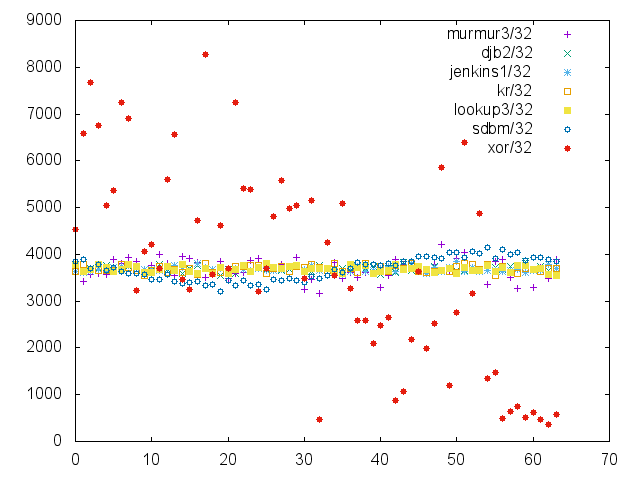
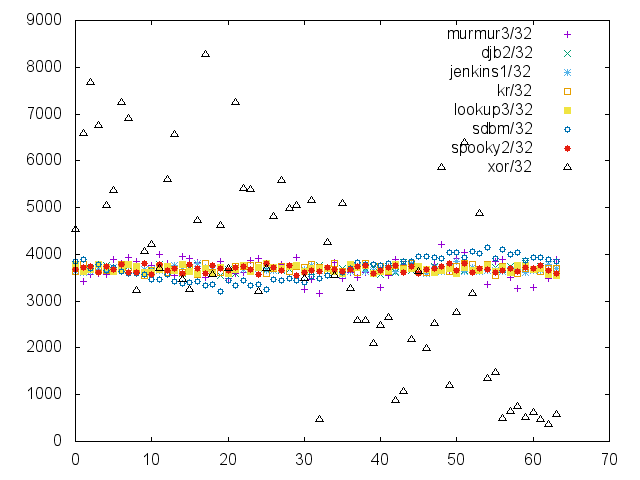
Implement 32-bit version of Spooky2/128

diff --git a/algo/spooky2.c b/algo/spooky2.c
@@ -1,0 +1,110 @@
+/* Copyright (c) 2016 James Hunt
+
+   Permission is hereby granted, free of charge, to any person obtaining a copy
+   of this software and associated documentation files (the "Software"), to
+   deal in the Software without restriction, including without limitation the
+   rights to use, copy, modify, merge, publish, distribute, sublicense, and/or
+   sell copies of the Software, and to permit persons to whom the Software is
+   furnished to do so, subject to the following conditions:
+
+   The above copyright notice and this permission notice shall be included in
+   all copies or substantial portions of the Software.
+
+   THE SOFTWARE IS PROVIDED "AS IS", WITHOUT WARRANTY OF ANY KIND, EXPRESS OR
+   IMPLIED, INCLUDING BUT NOT LIMITED TO THE WARRANTIES OF MERCHANTABILITY,
+   FITNESS FOR A PARTICULAR PURPOSE AND NONINFRINGEMENT. IN NO EVENT SHALL THE
+   AUTHORS OR COPYRIGHT HOLDERS BE LIABLE FOR ANY CLAIM, DAMAGES OR OTHER
+   LIABILITY, WHETHER IN AN ACTION OF CONTRACT, TORT OR OTHERWISE, ARISING
+   FROM, OUT OF OR IN CONNECTION WITH THE SOFTWARE OR THE USE OR OTHER DEALINGS
+   IN THE SOFTWARE.
+*/
+
+#include <sys/types.h>
+#include <stdint.h>
+#include <string.h>
+
+#define VARS   12
+#define BLOCK  VARS * 8
+#define ROL(x,y) ((x) << (y) | ((x) >> (64 - (y))))
+
+#define mix(data,s0,s1,s2,s3,s4,s5,s6,s7,s8,s9,s10,s11) {\
+	 s0 += data[0];     s2 ^= s10;   s11 ^= s0;     s0 = ROL(s0,11);   s11 += s1;  \
+	 s1 += data[1];     s3 ^= s11;   s0 ^= s1;      s1 = ROL(s1,32);    s0 += s2;  \
+	 s2 += data[2];     s4 ^= s0;    s1 ^= s2;      s2 = ROL(s2,43);    s1 += s3;  \
+	 s3 += data[3];     s5 ^= s1;    s2 ^= s3;      s3 = ROL(s3,31);    s2 += s4;  \
+	 s4 += data[4];     s6 ^= s2;    s3 ^= s4;      s4 = ROL(s4,17);    s3 += s5;  \
+	 s5 += data[5];     s7 ^= s3;    s4 ^= s5;      s5 = ROL(s5,28);    s4 += s6;  \
+	 s6 += data[6];     s8 ^= s4;    s5 ^= s6;      s6 = ROL(s6,39);    s5 += s7;  \
+	 s7 += data[7];     s9 ^= s5;    s6 ^= s7;      s7 = ROL(s7,57);    s6 += s8;  \
+	 s8 += data[8];    s10 ^= s6;    s7 ^= s8;      s8 = ROL(s8,55);    s7 += s9;  \
+	 s9 += data[9];    s11 ^= s7;    s8 ^= s9;      s9 = ROL(s9,54);    s8 += s10; \
+	s10 += data[10];    s0 ^= s8;    s9 ^= s10;    s10 = ROL(s10,22);   s9 += s11; \
+	s11 += data[11];    s1 ^= s9;    s10 ^= s11;   s11 = ROL(s11,46);  s10 += s0;  \
+}
+
+#define endpart(h0,h1,h2,h3,h4,h5,h6,h7,h8,h9,h10,h11) {\
+	h11+= h1;    h2 ^= h11;   h1 = ROL(h1,44);  \
+	h0 += h2;    h3 ^= h0;    h2 = ROL(h2,15);  \
+	h1 += h3;    h4 ^= h1;    h3 = ROL(h3,34);  \
+	h2 += h4;    h5 ^= h2;    h4 = ROL(h4,21);  \
+	h3 += h5;    h6 ^= h3;    h5 = ROL(h5,38);  \
+	h4 += h6;    h7 ^= h4;    h6 = ROL(h6,33);  \
+	h5 += h7;    h8 ^= h5;    h7 = ROL(h7,10);  \
+	h6 += h8;    h9 ^= h6;    h8 = ROL(h8,13);  \
+	h7 += h9;    h10^= h7;    h9 = ROL(h9,38);  \
+	h8 += h10;   h11^= h8;    h10= ROL(h10,53); \
+	h9 += h11;   h0 ^= h9;    h11= ROL(h11,42); \
+	h10+= h0;    h1 ^= h10;   h0 = ROL(h0,54);  \
+}
+
+#define end(data,h0,h1,h2,h3,h4,h5,h6,h7,h8,h9,h10,h11) {\
+	h0 += data[0];   h1 += data[1];   h2 += data[2];   h3 += data[3]; \
+	h4 += data[4];   h5 += data[5];   h6 += data[6];   h7 += data[7]; \
+	h8 += data[8];   h9 += data[9];   h10 += data[10]; h11 += data[11]; \
+	endpart(h0, h1, h2, h3, h4, h5, h6, h7, h8, h9, h10, h11); \
+	endpart(h0, h1, h2, h3, h4, h5, h6, h7, h8, h9, h10, h11); \
+	endpart(h0, h1, h2, h3, h4, h5, h6, h7, h8, h9, h10, h11); \
+}
+
+static void spooky2_128(const char *str, unsigned long len, uint64_t *hash1, uint64_t *hash2)
+{
+	uint64_t h0, h1, h2, h3, h4, h5, h6, h7, h8, h9, h10, h11;
+	uint64_t buf[VARS];
+	uint64_t *e;
+	union {
+		const uint8_t *p8;
+		uint64_t *p64;
+	} u;
+	size_t r;
+
+	h0 = h3 = h6 = h9  = *hash1;
+	h1 = h4 = h7 = h10 = *hash2;
+	h2 = h5 = h8 = h11 = 0xdeadbeefdeadbeefLL;
+
+	u.p8 = (const uint8_t *)str;
+	e = u.p64 + (len/BLOCK)*VARS;
+
+	while (u.p64 < e) { 
+		mix(u.p64, h0, h1, h2, h3, h4, h5, h6, h7, h8, h9, h10, h11);
+		u.p64 += VARS;
+	}
+
+	// handle the last partial block of BLOCK bytes
+	r = len - ((const uint8_t *)e - u.p8);
+	memcpy(buf, e, r);
+	memset(((uint8_t *)buf)+r, 0, BLOCK-r);
+	((uint8_t *)buf)[BLOCK-1] = r;
+
+	// do some final mixing 
+	end(buf, h0, h1, h2, h3, h4, h5, h6, h7, h8, h9, h10, h11);
+	*hash1 = h0;
+	*hash2 = h1;
+}
+
+unsigned int spooky2_32(const char *str, unsigned long len, unsigned int seed)
+{
+	uint64_t hash1, hash2;
+	hash1 = hash2 = seed;
+	spooky2_128(str, len, &hash1, &hash2);
+	return (hash2 & 0xffffffff);
+}

diff --git a/run.c b/run.c
@@ -30,6 +30,7 @@ HASH_FN(djb2_32);
 HASH_FN(jenkins1_32);
 HASH_FN(kr_32);
 HASH_FN(lookup3_32);
+HASH_FN(spooky2_32);
 HASH_FN(sdbm_32);
 HASH_FN(xor_32);
 #undef HASH_FN
@@ -45,6 +46,7 @@ static void usage(const char *name)
 	                "  - jenkins1_32\n"
 	                "  - kr_32\n"
 	                "  - lookup3_32\n"
+	                "  - spooky2_32\n"
 	                "  - sdbm_32\n"
 	                "  - xor_32\n");
 }
@@ -86,6 +88,7 @@ int main(int argc, char **argv)
 	CHECK(jenkins1_32);
 	CHECK(kr_32);
 	CHECK(lookup3_32);
+	CHECK(spooky2_32);
 	CHECK(sdbm_32);
 	CHECK(xor_32);
 #undef CHECK
